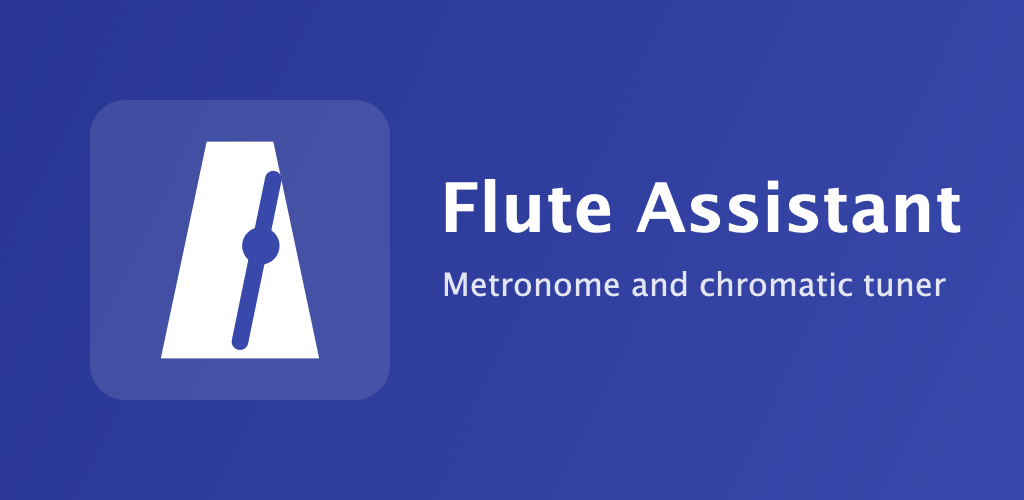
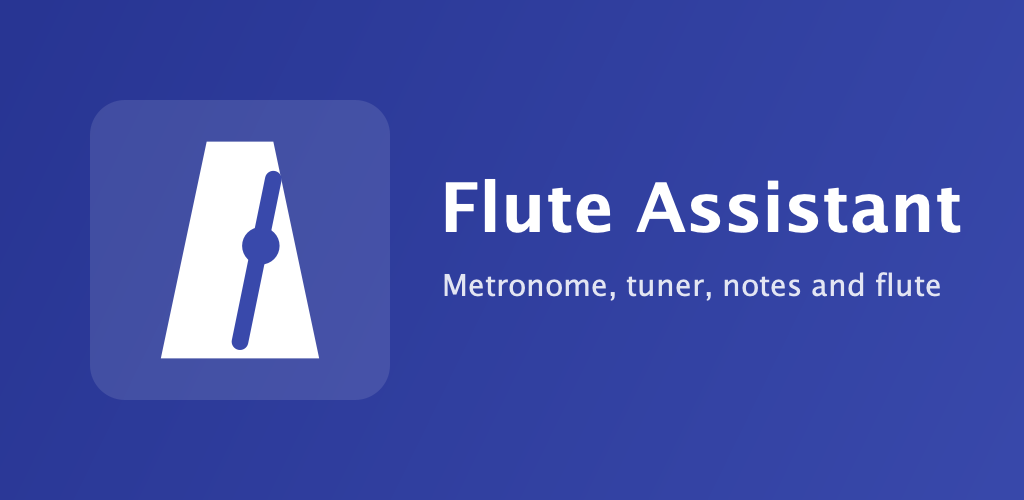
docs: update Play Store listing docs, screenshots script, and privacy policy

Changed region(s): [[0.4375, 0.54, 0.9375, 0.6]]

diff --git a/tools/IconGen.java b/tools/IconGen.java
@@ -6,7 +6,7 @@ import javax.imageio.ImageIO;
 
 /**
  * Usage (JDK 11+): java -Djava.awt.headless=true tools/IconGen.java <output dir>
- * Then copy mipmap-*/ic_launcher*.png into app/src/main/res and play-listing/* into docs/release.
+ * Then copy the mipmap-DENSITY/ic_launcher*.png files into app/src/main/res and play-listing/* into docs/release.
  *
  * Renders the Flute Assistant launcher icon to PNG at every density, plus the Play Store
  * listing assets. The geometry mirrors the adaptive-icon vector drawables (108x108 canvas,
@@ -87,9 +87,9 @@ public class IconGen {
         g.setColor(FG);
         g.setFont(fit(g, "Flute Assistant", Font.BOLD, 86, maxWidth));
         g.drawString("Flute Assistant", textX, 232);
-        g.setFont(fit(g, "Metronome and chromatic tuner", Font.PLAIN, 38, maxWidth));
+        g.setFont(fit(g, "Metronome, tuner, notes and flute", Font.PLAIN, 38, maxWidth));
         g.setColor(new Color(255, 255, 255, 220));
-        g.drawString("Metronome and chromatic tuner", textX + 2, 296);
+        g.drawString("Metronome, tuner, notes and flute", textX + 2, 296);
         g.dispose();
         return img;
     }

diff --git a/docs/release/play-console.md b/docs/release/play-console.md
@@ -1,34 +1,70 @@
 # Play Console answers for Flute Assistant
 
 Facts the answers rest on: the app is made for primary-school children learning the flute and
-runs entirely on the device. The microphone is used only while the Tuner tab is open; audio is
-analysed in memory for pitch and never stored, logged or transmitted. There is no account, no
-network access, no analytics, no ads, no SDK that collects data. Settings are stored locally on
-the device.
+runs entirely on the device. It has four tabs: a metronome, a tuner, a note reading game and a
+digital flute. The microphone is used only while the Tuner tab is open; audio is analysed in
+memory for pitch and never stored, logged or transmitted. The other tabs only play sound. There
+is no account, no network access, no analytics, no ads, no SDK that collects data. Settings and
+the child's tune are stored locally on the device.
 
 ## Store listing
 
 | Field | Value |
 |---|---|
 | App name | Flute Assistant |
-| Short description | A simple, friendly metronome and tuner for young flute players. |
+| Short description | Metronome, tuner, note game and a digital flute for young flute players. |
 | Full description | See below |
 | App icon | `play-listing/icon-512.png` (512x512) |
-| Feature graphic | `play-listing/feature-graphic-1024x500.png` |
-| Screenshots | At least 2 phone screenshots (metronome, tuner); 16:9 or 9:16, 320 to 3840 px |
+| Feature graphic | `play-listing/feature-graphic-1024x500.png` (subtitle "Metronome, tuner, notes and flute", text in `tools/IconGen.java`) |
+| Screenshots | `play-listing/screenshots/en/` and `hr/`: one per tab, 1080x1920 JPEG (9:16, the ratio Play asks for), made by `tools/play-screenshots.sh` on the emulator |
 | Category | Music & Audio |
-| Languages | English (default) and Croatian; the UI follows the system language and Android 13+ per-app language settings. Add a Croatian store listing translation if you want the listing localised too. |
+| Languages | English (default) and Croatian; the UI follows the system language and Android 13+ per-app language settings. Add a Croatian listing translation (draft below) with the `hr/` screenshots so Croatian users see the listing in their language. |
 | Contact email | Required; shown publicly |
 | Privacy policy URL | Required; host `privacy-policy.md` (for example on GitHub Pages) |
 
-Full description draft:
+Full description, English:
 
-> Made for children in primary school who are learning the flute. Two big, friendly screens
-> and nothing to read: a metronome with a tempo ring, one play button, bouncing beat dots and
-> 2/4, 3/4 or 4/4; and a tuner that shows the note in big letters and says "Perfect!", "Too
-> low" or "Too high". The metronome keeps running while you read sheet music in another app,
-> with a notification to stop it. In English and Croatian. No account, no ads, no data leaves
-> your device.
+> Made for children in primary school who are learning the flute. Four big, friendly screens
+> and nothing to read.
+>
+> METRONOME. A tempo ring, four levels from Beginner to Master, bouncing beat dots and one play
+> button. Ten time signatures, from 2/4 to 12/8. The click keeps going while you read sheet
+> music in another app, with a notification to stop it.
+>
+> TUNER. Play a note and see its name in big letters, with "Perfect!", "Too low" or "Too high"
+> and a tip on what to change. Or pick the note you want to play: hear it, see its fingering
+> and tune to it.
+>
+> NOTES. A note reading game. A note name appears and you tap its place on the staff. Ten notes
+> a round, a streak for every hit in a row and the score at the end. Choose which notes to
+> practise.
+>
+> FLUTE. Fifteen note keys in three octave rows. Press a key to hear the note and see its
+> fingering, play a tune, then hear it played back.
+>
+> In English and Croatian. No account, no ads, no data leaves your device.
+
+Full description, Croatian (short description: "Metronom, štimer, igra čitanja nota i
+digitalna flauta za male flautiste."):
+
+> Napravljeno za djecu u osnovnoj školi koja uče svirati flautu. Četiri velika, vesela ekrana i
+> ništa za čitanje.
+>
+> METRONOM. Krug za tempo, četiri razine od Početnika do Majstora, točkice koje skaču u ritmu i
+> jedna tipka za sviranje. Deset mjera, od 2/4 do 12/8. Metronom kuca i dok u drugoj
+> aplikaciji gledaš note, a obavijest ga zaustavlja.
+>
+> ŠTIMER. Odsviraj ton i vidi njegovo ime velikim slovima uz „Savršeno!“, „Prenisko“ ili
+> „Previsoko“ i savjet što promijeniti. Ili odaberi ton koji želiš svirati: poslušaj ga,
+> pogledaj prstomet i ugodi flautu prema njemu.
+>
+> NOTE. Igra čitanja nota. Pojavi se ime note, a ti dodirni njezino mjesto na crtovlju. Deset
+> nota po krugu, niz za svaki pogodak zaredom i rezultat na kraju. Sam biraš koje note vježbaš.
+>
+> FLAUTA. Petnaest tipki u tri reda. Pritisni tipku da čuješ ton i vidiš prstomet, odsviraj
+> pjesmicu, a zatim je poslušaj.
+>
+> Na hrvatskom i engleskom. Bez računa, bez oglasa, nikakvi podaci ne napuštaju uređaj.
 
 ## App content
 
@@ -62,9 +98,10 @@ optional "Teacher Approved" badge can be applied for after launch.
 - Does your app collect or share any of the required user data types? **No.**
   Play defines collection as transmitting data off the device. Microphone audio is processed
   on the device in memory and discarded; nothing is stored or sent, so no data type is
-  collected or shared.
+  collected or shared. Settings, the chosen practice notes and the child's tune stay in the
+  app's private storage on the device.
 - Encryption in transit and deletion requests are not asked when nothing is collected.
-  Uninstalling removes presets and settings.
+  Uninstalling removes everything.
 
 Resulting public label: "No data collected" and "No data shared with third parties".
 
@@ -105,7 +142,8 @@ Not requested. **No.**
 | `POST_NOTIFICATIONS` | Playback notification with Stop (runtime permission on Android 13+) |
 
 None of these needs a separate sensitive-permission declaration form, apart from the
-foreground service type above.
+foreground service type above. The Notes and Flute tabs need no permission: they only play
+tones through the speaker.
 
 ## Testing requirement for newer personal developer accounts
 

diff --git a/docs/release/privacy-policy.md b/docs/release/privacy-policy.md
@@ -1,10 +1,10 @@
 # Privacy Policy for Flute Assistant
 
-Last updated: 22 October 2026
+Last updated: 23 October 2026
 
-Flute Assistant (the "app") is a metronome and tuner for Android made for children learning
-the flute, published by bertlab. This policy explains what the app does with information on
-your device.
+Flute Assistant (the "app") is a metronome, tuner, note reading game and digital flute for
+Android made for children learning the flute, published by bertlab. This policy explains what
+the app does with information on your device.
 
 ## Summary
 
@@ -16,15 +16,17 @@ system, no analytics, no advertising and does not use the internet.
 The tuner feature uses the microphone to detect the pitch of the note you are playing. Audio
 is analysed in real time in the device's memory only. It is never recorded, saved to storage,
 or sent anywhere. The microphone is active only while the Tuner tab is open and the app is on
-screen, and you can revoke the permission at any time in Android Settings. The metronome does
-not use the microphone.
+screen, and you can revoke the permission at any time in Android Settings. The metronome, the
+note reading game and the digital flute do not use the microphone; they only play sound.
 
 ## Data stored on your device
 
-Your metronome settings (tempo and beats in a bar) are stored locally in the app's private
-storage so they are there the next time you open the app. They never leave the device.
-Uninstalling the app deletes them. If you use Android's device backup, this data may be
-included in your own backup managed by Google or your device maker, under their terms.
+Your settings are stored locally in the app's private storage so they are there the next time
+you open the app: the metronome tempo and beats in a bar, the tuner mode and the note you chose
+to tune to, the notes you chose to practise in the reading game, whether a found note is played,
+and the tune you played on the digital flute. None of this identifies you and it never leaves
+the device. Uninstalling the app deletes it. If you use Android's device backup, this data may
+be included in your own backup managed by Google or your device maker, under their terms.
 
 ## Notifications
 

diff --git a/docs/release/README.md b/docs/release/README.md
@@ -106,7 +106,7 @@ Before uploading, run the full check: `./gradlew testDebugUnitTest lintRelease b
 See `play-console.md` for the store listing, data safety, permission and content rating
 answers, and `privacy-policy.md` for the policy text to host.
 
-## 5. Launcher icon and store graphics
+## 5. Launcher icon, store graphics and screenshots
 
 The icon is a vector adaptive icon (`res/drawable/ic_launcher_*.xml`) plus legacy PNGs for
 Android 7 (`res/mipmap-*/`). `tools/IconGen.java` renders the PNGs, the 512 px Play icon and the
@@ -115,3 +115,8 @@ Android 7 (`res/mipmap-*/`). `tools/IconGen.java` renders the PNGs, the 512 px P
 ```sh
 java -Djava.awt.headless=true tools/IconGen.java /tmp/icons
 ```
+
+Phone screenshots come from the emulator: with the AVD running (`-no-audio`, see CLAUDE.md) and
+a debug APK built, `tools/play-screenshots.sh` drives the four tabs in English and Croatian and
+writes one 1080x1920 JPEG per tab (Play asks for 9:16) into `docs/release/play-listing/screenshots/`.
+Re-run it after any visible change before uploading.

diff --git a/CLAUDE.md b/CLAUDE.md
@@ -64,7 +64,8 @@ gitignored `keystore.properties`; without either the release build is produced u
 read or print the keystore password. Release builds use whole-app R8 (a package-scoped
 optimisation crashed at startup inside androidx.startup). Process, Play Console answers and the
 Secrets Manager backup recipe are in `docs/release/`. Launcher PNGs and store graphics come from
-`java -Djava.awt.headless=true tools/IconGen.java /tmp/icons`.
+`java -Djava.awt.headless=true tools/IconGen.java /tmp/icons`. Store screenshots (one per tab, en and hr,
+padded to 9:16) come from `tools/play-screenshots.sh` with the emulator up and a debug APK built.
 
 ## Build wiring (AGP 9)
 
